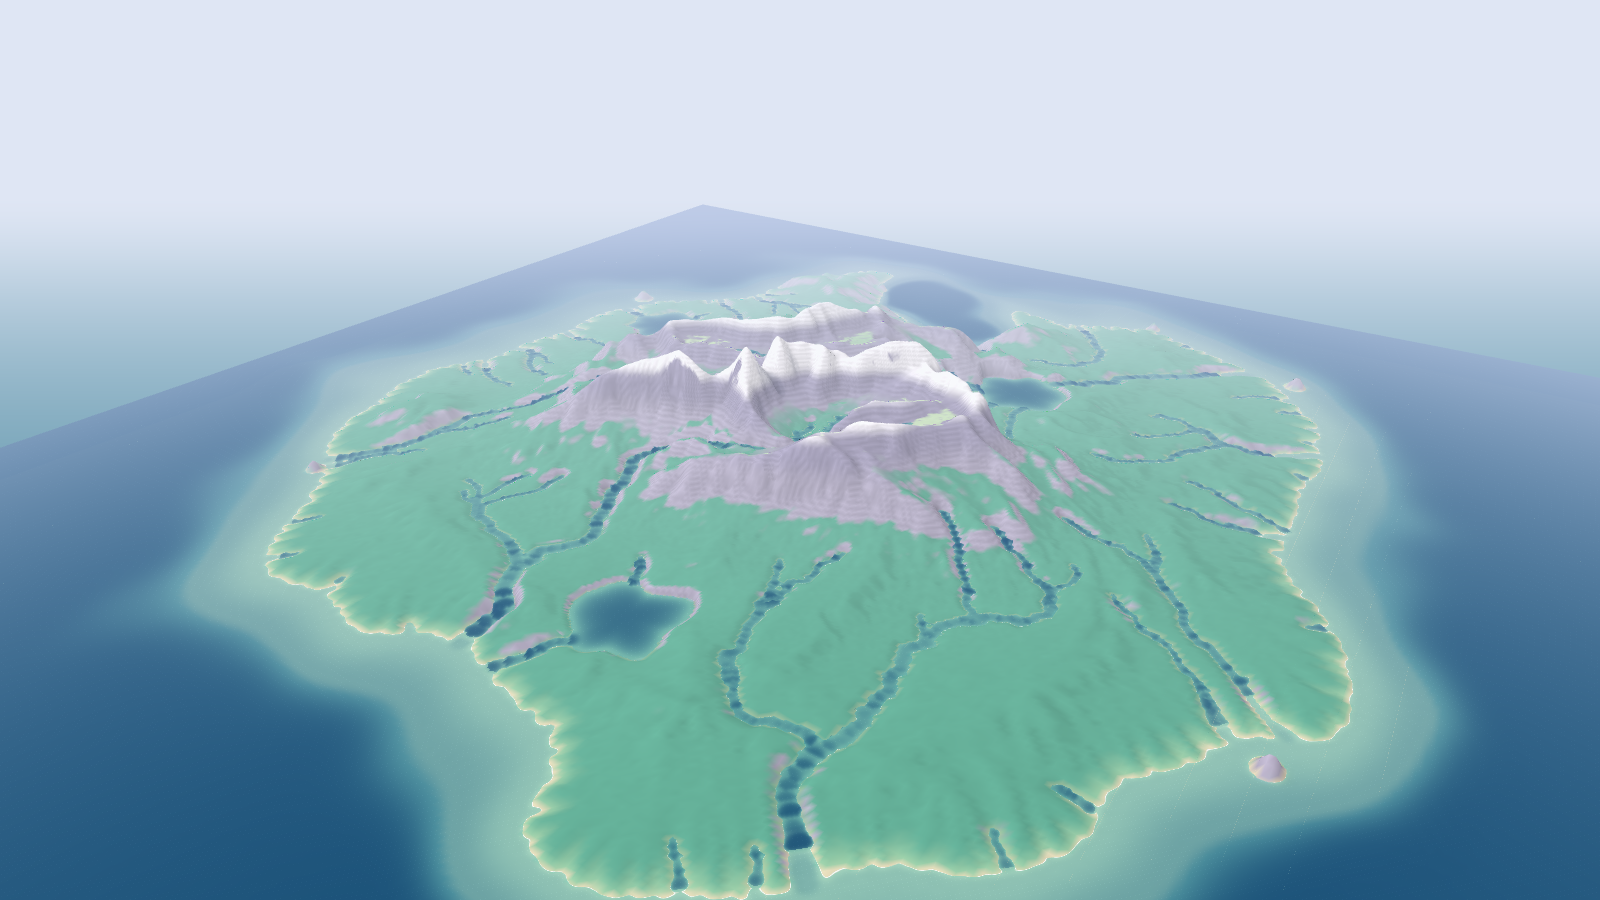
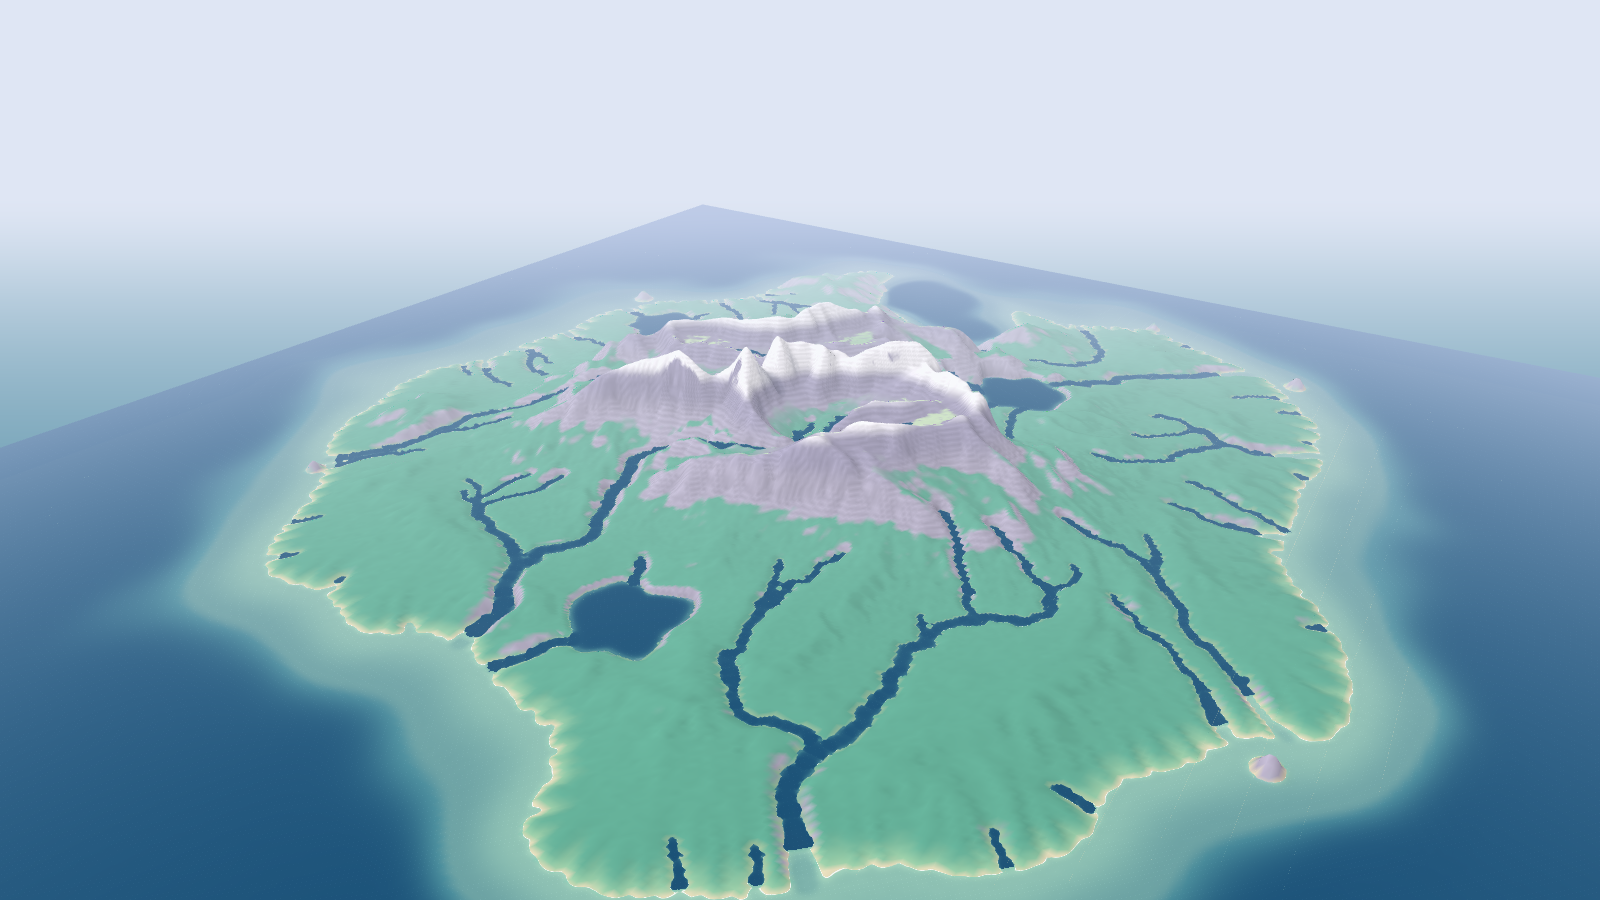
Rivers: saturate inland water tint (no beads), higher far water LOD

diff --git a/src/main.js b/src/main.js
@@ -25,7 +25,7 @@ const waterMat=new THREE.ShaderMaterial({
   fragmentShader:`uniform float uTime,uFogNear,uFogFar;uniform vec3 uShallow,uDeep,uFoam,uFog;varying float vD;varying vec3 vW;varying float vDist;
     void main(){
       float d=vD; if(d<-0.02) discard;
-      float k=mix(.11,.5,step(.8,vW.y));float t=1.-exp(-max(d,0.)*k);
+      float k=mix(.11,3.,step(.8,vW.y));float t=1.-exp(-max(d,0.)*k);
       vec3 col=mix(uShallow,uDeep,t);
       float w1=sin(uTime*.9+vW.x*.12+vW.z*.07),w2=sin(uTime*1.3-vW.z*.15+vW.x*.05);
       float band=.55+.22*w1+.14*w2;
@@ -94,7 +94,7 @@ function updateChunks(budget=6){
     if(inflight.has(fk)) continue;
     if(inflight.size>=budget){pending++;continue;}
     inflight.add(fk);const myGen=loadGen;
-    client.chunk(w.cx,w.cz,w.res,w.res>=33?65:w.res>=17?49:w.res>=9?33:17).then(r=>{
+    client.chunk(w.cx,w.cz,w.res,w.res>=33?65:w.res>=17?65:w.res>=9?65:49).then(r=>{
       inflight.delete(fk);
       if(!r||myGen!==loadGen) return;
       const old=chunkMap.get(k);if(old) disposeChunk(old);
